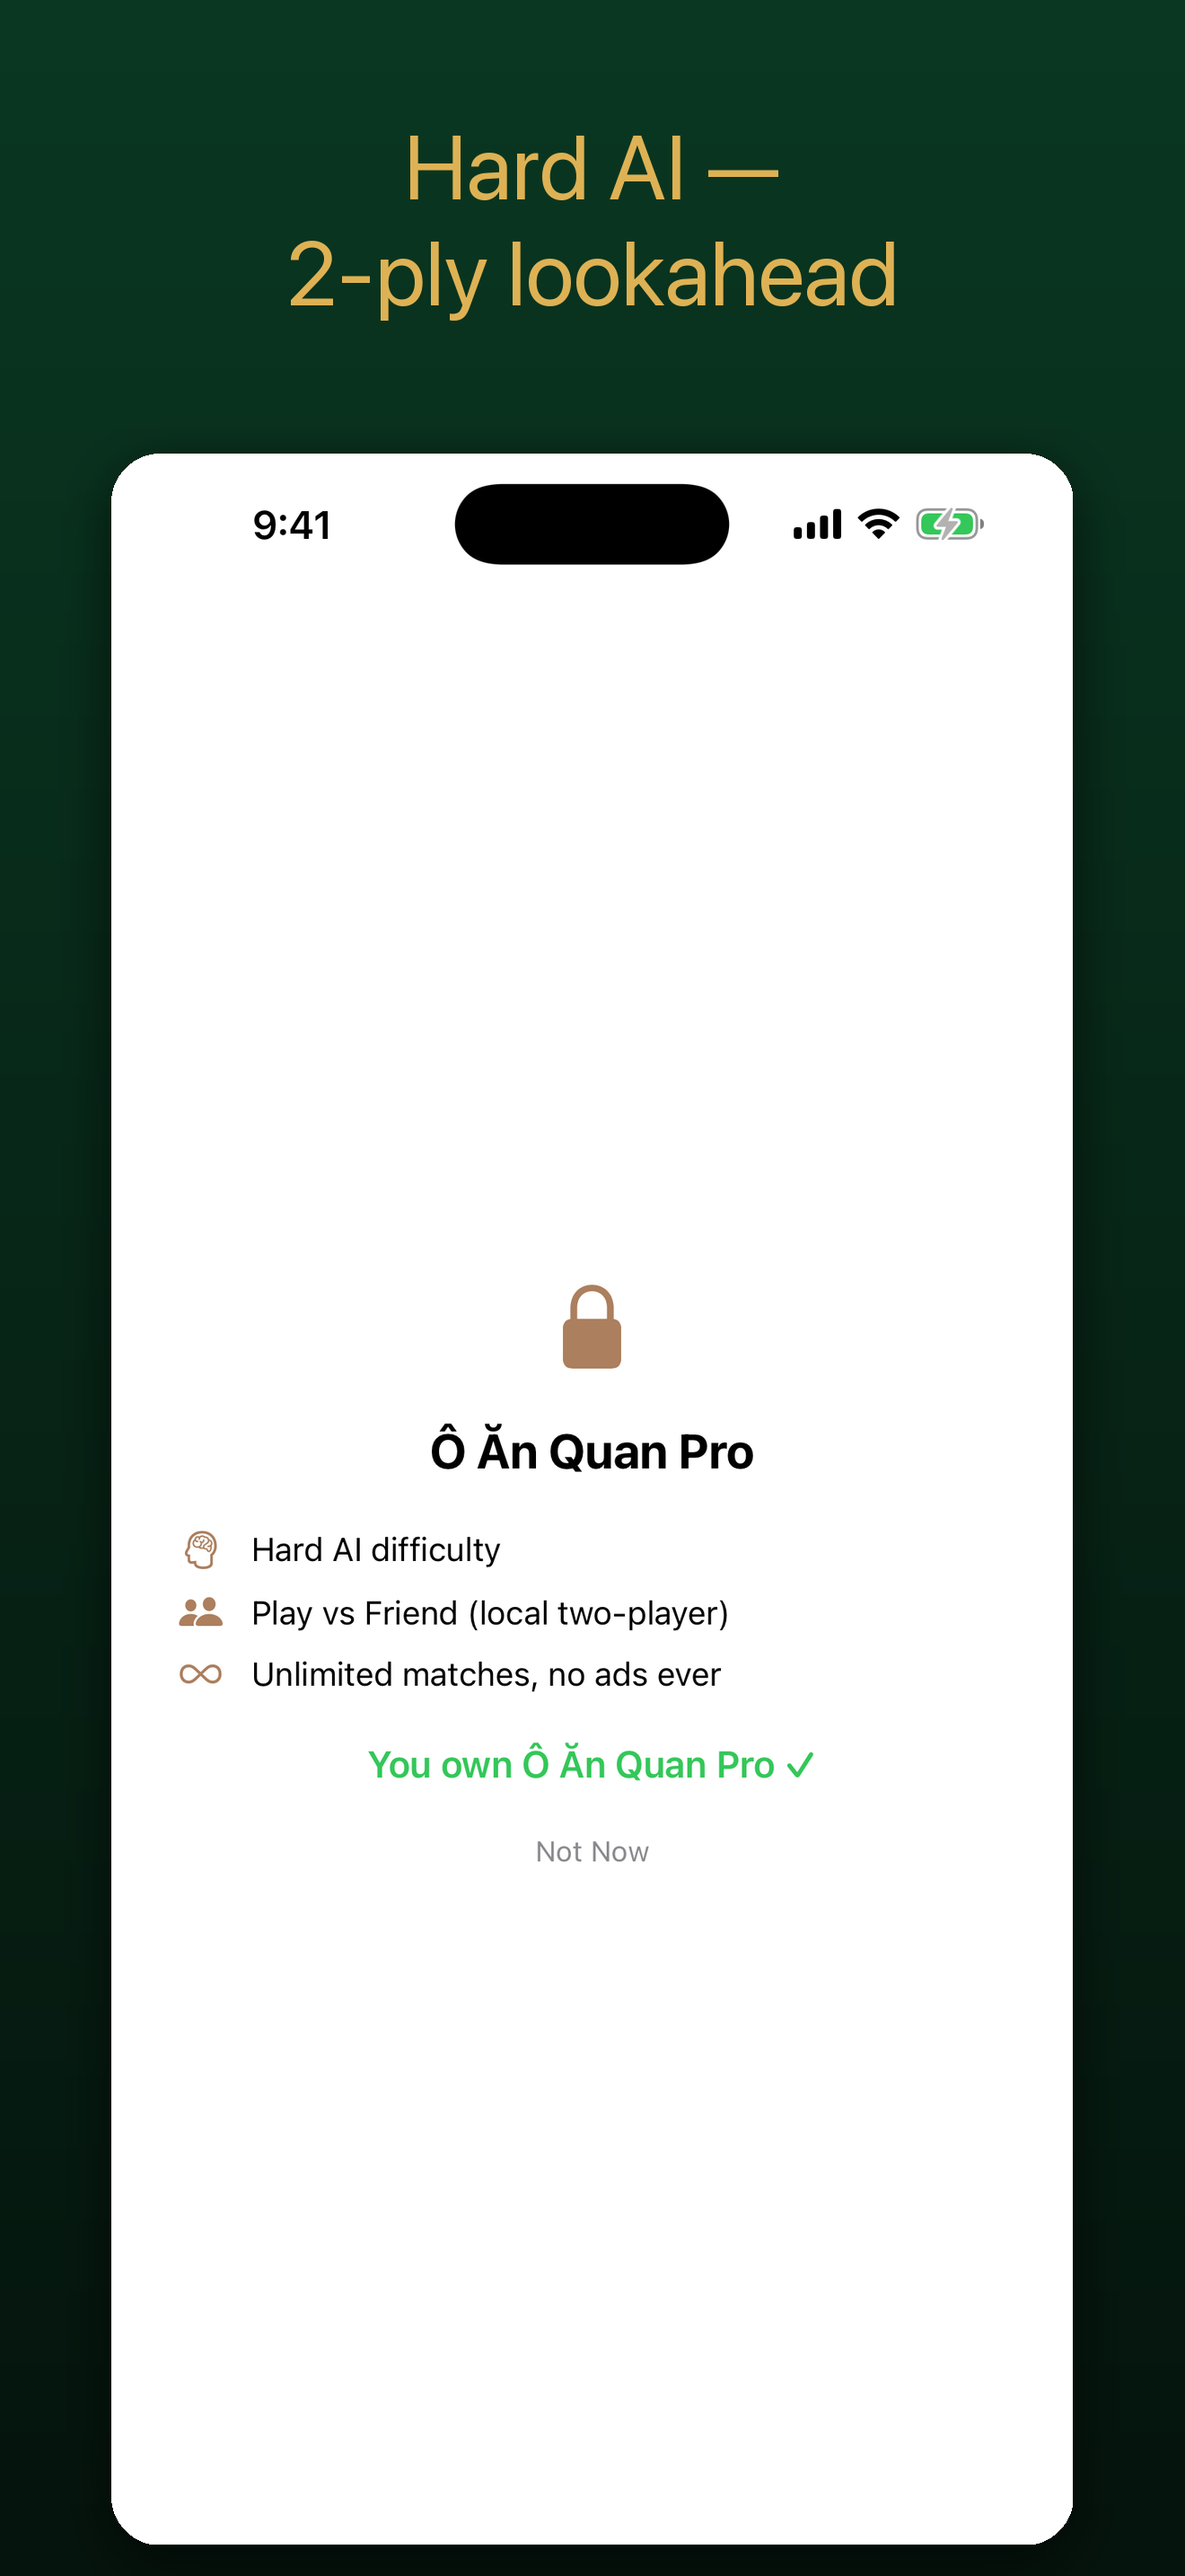
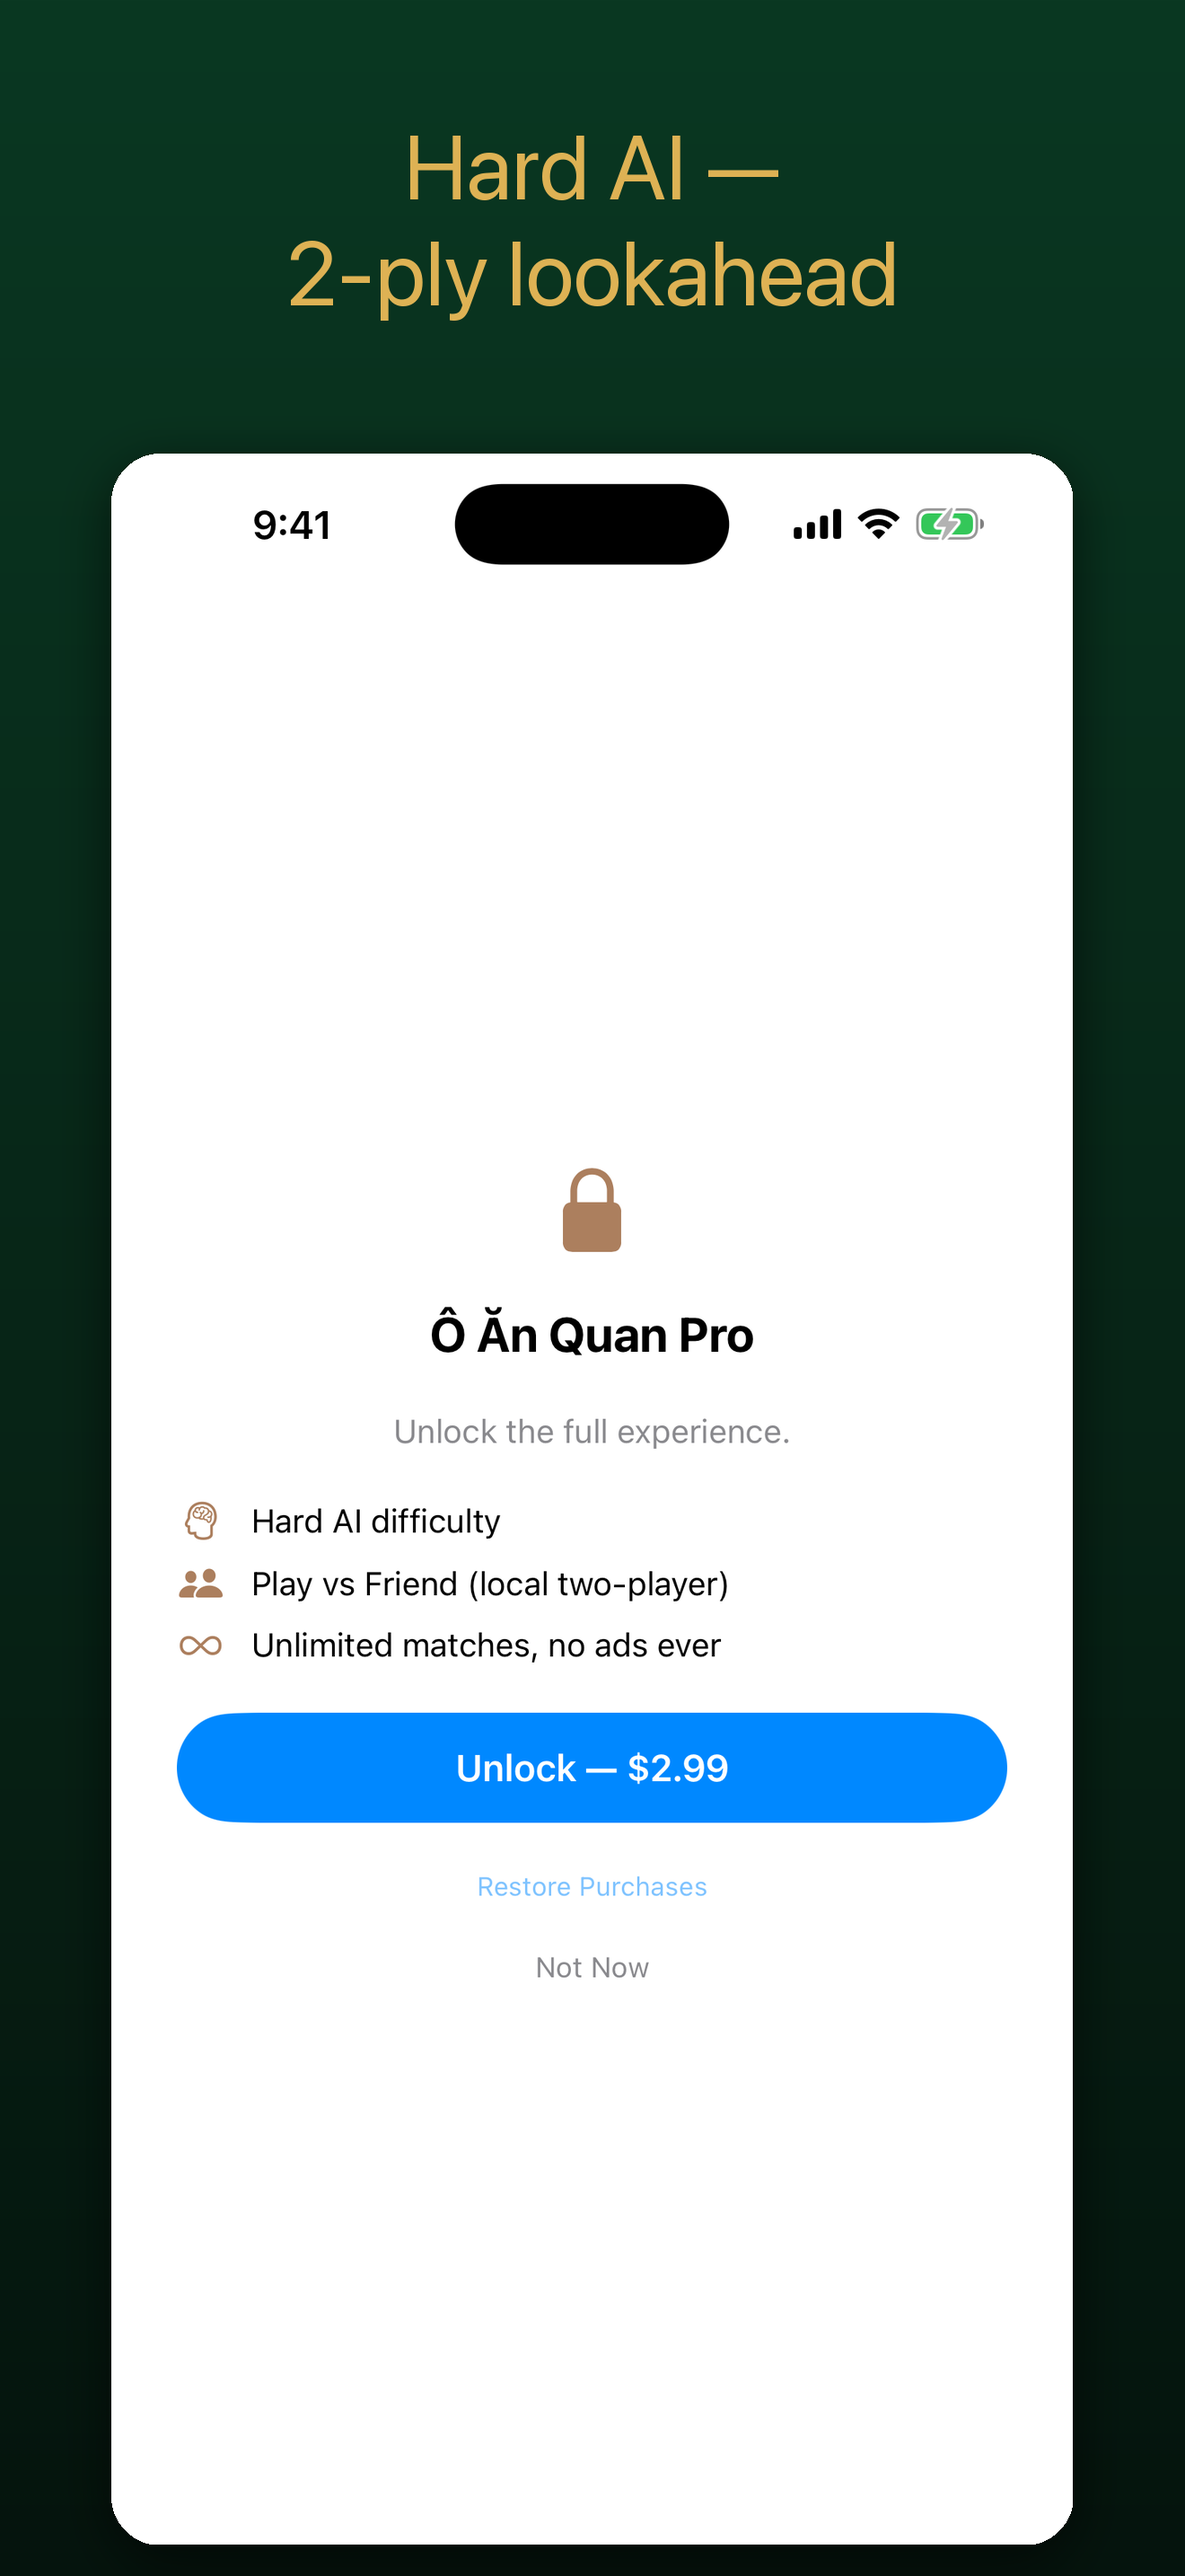
Fix residual DEBUG isPro leak on paywall screenshot + stale trial-lock screenshots
Vision QA found the paywall capture scenario ("upgrade") was never added to the
isPro override exclusion list, so the App Store screenshot showed a fake
"already owned" state instead of a real buy button. Also recaptured 01-home
(stale from before the trial-lock feature) and fixed two capture-script timing
bugs (missing simulator erase, insufficient wait for the StoreKit timeout to
resolve) plus a stray first-boot system notification landing in the shot.

Claude-Session: https://claude.ai/code/session_01WRvSDUBWBn7jn1uQ1ji8Go

Changed region(s): [[0.1553, 0.4344, 0.8697, 0.7758]]

diff --git a/OAnQuan/Views/UpgradeView.swift b/OAnQuan/Views/UpgradeView.swift
@@ -45,13 +45,30 @@ struct UpgradeView: View {
                 .disabled(purchases.isPurchasing)
                 .padding(.horizontal, 30)
             } else if purchases.productLoadFailed {
-                VStack(spacing: 8) {
-                    Text(L("upgrade.loadFailed"))
-                        .font(.subheadline)
-                        .foregroundStyle(.secondary)
-                    Button(L("upgrade.tryAgain")) { Task { await purchases.loadProduct() } }
-                        .buttonStyle(.bordered)
+                #if DEBUG
+                if ProcessInfo.processInfo.environment["OQ_CAPTURE"] == "upgrade" {
+                    // App Store screenshot capture only: local StoreKit testing
+                    // consistently fails to load a real Product via a bare
+                    // `simctl launch` (no Xcode test host attached) — same
+                    // known limitation as Janggi/Dara/Makruk. Renders the real,
+                    // shipping button copy/price so the screenshot reflects the
+                    // actual purchase UI instead of the simulator-only error
+                    // fallback below. Never shown to a real user — gated on
+                    // both #if DEBUG and the OQ_CAPTURE screenshot launch arg.
+                    Button {} label: {
+                        Text(String(format: L("upgrade.buy"), "$2.99"))
+                            .fontWeight(.semibold)
+                            .frame(maxWidth: .infinity)
+                    }
+                    .buttonStyle(.borderedProminent)
+                    .controlSize(.large)
+                    .padding(.horizontal, 30)
+                } else {
+                    productLoadFailedView
                 }
+                #else
+                productLoadFailedView
+                #endif
             } else {
                 Text(L("upgrade.unavailable")).foregroundStyle(.secondary)
             }
@@ -79,6 +96,16 @@ struct UpgradeView: View {
         .task { await purchases.loadProduct() }
         .onChange(of: purchases.isPro) { isPro in
             if isPro { dismiss() }
+        }
+    }
+
+    private var productLoadFailedView: some View {
+        VStack(spacing: 8) {
+            Text(L("upgrade.loadFailed"))
+                .font(.subheadline)
+                .foregroundStyle(.secondary)
+            Button(L("upgrade.tryAgain")) { Task { await purchases.loadProduct() } }
+                .buttonStyle(.bordered)
         }
     }
 

diff --git a/OAnQuan/Core/PurchaseManager.swift b/OAnQuan/Core/PurchaseManager.swift
@@ -157,9 +157,13 @@ class PurchaseManager: ObservableObject {
         #if DEBUG
         // Double-gating bug fix (2026-08-24, portfolio-wide compliance-gate finding):
         // `!= "paywall"` alone defaults to unlocked on a bare Debug run and on the
-        // "home" capture. Also exclude "home" explicitly.
+        // "home" capture. Also exclude "home" and "upgrade" explicitly — "upgrade" is
+        // this app's own paywall screenshot scenario name (see capture_shots.py), and
+        // forcing isPro=true for it made the App Store paywall screenshot show a fake
+        // "already owned" state instead of the real locked/buy screen (found via
+        // vision QA, 2026-08-24).
         let captureOQ = ProcessInfo.processInfo.environment["OQ_CAPTURE"]
-        isPro = captureOQ != nil && captureOQ != "home" && captureOQ != "paywall"
+        isPro = captureOQ != nil && captureOQ != "home" && captureOQ != "paywall" && captureOQ != "upgrade"
         #else
         for await result in Transaction.currentEntitlements {
             if case .verified(let transaction) = result,

diff --git a/capture_shots.py b/capture_shots.py
@@ -107,12 +107,18 @@ def main():
     print(f"==> device {name}")
     APP = build_app()
     subprocess.run(["xcrun", "simctl", "shutdown", DEVICE], capture_output=True)
+    subprocess.run(["xcrun", "simctl", "erase", DEVICE], capture_output=True)
     subprocess.run(["xcrun", "simctl", "boot", DEVICE], capture_output=True)
     sh("xcrun", "simctl", "bootstatus", DEVICE, "-b")
     subprocess.run(["xcrun", "simctl", "status_bar", DEVICE, "override", "--time", "9:41",
                     "--batteryLevel", "100", "--batteryState", "charged",
                     "--cellularBars", "4", "--wifiBars", "3"], capture_output=True)
     sh("xcrun", "simctl", "install", DEVICE, str(APP))
+    # A freshly-erased simulator can surface a first-boot system notification
+    # banner ("Ready for Apple Intelligence") a few seconds in, which then
+    # auto-dismisses on its own — wait it out before capturing so it doesn't
+    # land in a screenshot (found via vision QA, 2026-08-24).
+    time.sleep(8)
     raw = APP_DIR / "screenshots" / "_raw.png"
     for lang, shots in SHOTS.items():
         out = APP_DIR / "screenshots" / "final" / lang
@@ -122,7 +128,12 @@ def main():
             subprocess.run(["xcrun", "simctl", "launch", DEVICE, BUNDLE],
                            env=dict(os.environ, SIMCTL_CHILD_OQ_CAPTURE=cap, SIMCTL_CHILD_OQ_LANG=lang),
                            capture_output=True)
-            time.sleep(2)
+            # "upgrade" needs to outlast PurchaseManager.loadProduct()'s 10s
+            # StoreKit timeout so productLoadFailed (and the DEBUG paywall-copy
+            # override) has actually resolved by the time we screenshot —
+            # otherwise this shot non-deterministically catches the loading
+            # spinner instead of the real button (found via vision QA, 2026-08-24).
+            time.sleep(12 if cap == "upgrade" else 2)
             sh("xcrun", "simctl", "io", DEVICE, "screenshot", str(raw))
             compose(raw, headline, out / f"{shotname}.png")
     raw.unlink(missing_ok=True)

diff --git a/CLAUDE.md b/CLAUDE.md
@@ -7,6 +7,36 @@ archived/uploaded/submitted yet**, staged for a future day per the staggered-sub
 pacing (see memory `project_20260824_debug_gating_submission_queue`). Next: bump version,
 archive, upload, `new_version.py`, submit.
 
+**2026-08-24 (later same day) — vision QA pass found the same double-gating bug had a
+residual instance, plus a stale-screenshot problem.** The fix above excluded `"home"` from
+the isPro override but never excluded `"upgrade"` — this app's own paywall screenshot
+scenario name (see `capture_shots.py`) — so `04-upgrade.png` was still capturing with
+`isPro=true`, showing a fake "You own Ô Ăn Quan Pro ✓" state instead of a real buy button.
+A fresh user would never see that screen; this is the same "screenshot doesn't match
+reality" issue that got BauCua rejected under Guideline 2.3.6, just on the paywall instead
+of the home screen. Fixed:
+- `Core/PurchaseManager.swift`: `isPro` override now also excludes `"upgrade"`.
+- `Views/UpgradeView.swift`: added a DEBUG-only branch (mirroring Makruk's proven pattern)
+  that renders the real "Unlock — $2.99" button when `productLoadFailed` is true and
+  `OQ_CAPTURE == "upgrade"` — local StoreKit testing reliably fails to load a real Product
+  via a bare `simctl launch`, same known limitation as Janggi/Dara/Makruk.
+- `01-home.png` (en + vi) was also stale — captured before the 7-day-trial-lock feature
+  existed (footer read v1.0.2(3), current code is v1.0.3), so it showed no trial banner and
+  no lock icon on Hard, misrepresenting current app behavior the same way the Dara home
+  screenshot incident did earlier today. Recaptured.
+- `capture_shots.py` bugs found and fixed while recapturing: (1) never called `simctl
+  erase`, so the trial-day count wasn't deterministic across runs — added; (2) the
+  `"upgrade"` shot only waited 2s after launch, nowhere near
+  `PurchaseManager.loadProduct()`'s 10s StoreKit timeout, so it non-deterministically
+  caught the loading spinner instead of the resolved button — bumped to 12s for that shot;
+  (3) a freshly-erased simulator surfaced an iOS "Ready for Apple Intelligence" system
+  notification banner over the first capture a few seconds after boot — added an 8s
+  settle wait after install so it auto-dismisses before any screenshot.
+- All 10 screenshots (5 shots × en/vi) regenerated and individually visually verified
+  after the fixes — correct locked/trial state, no stray system UI, no truncation.
+- Build verified: `xcodegen generate` + `xcodebuild -sdk iphonesimulator build` →
+  **BUILD SUCCEEDED**. Not yet archived/submitted — same staged status as above.
+
 # Ô Ăn Quan — Vietnamese Board Game
 
 Native SwiftUI iOS app for Ô Ăn Quan, the traditional Vietnamese mancala-family board
